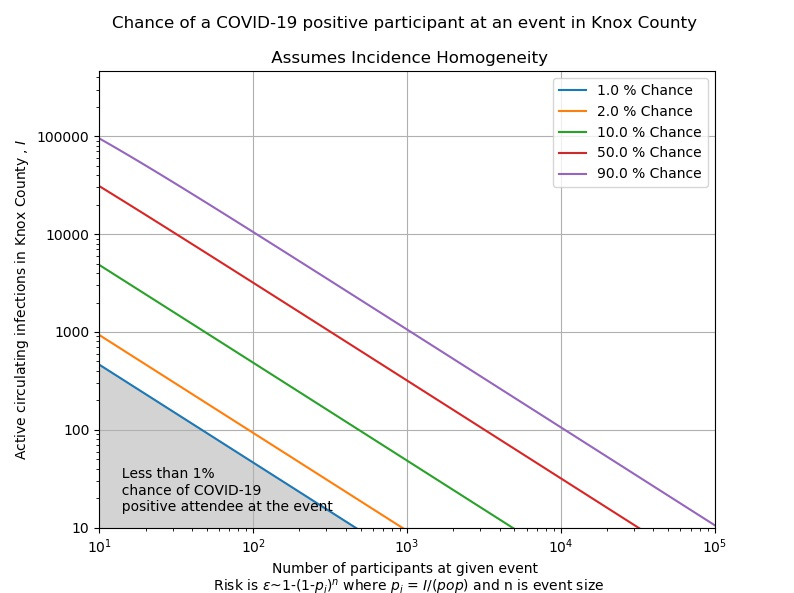
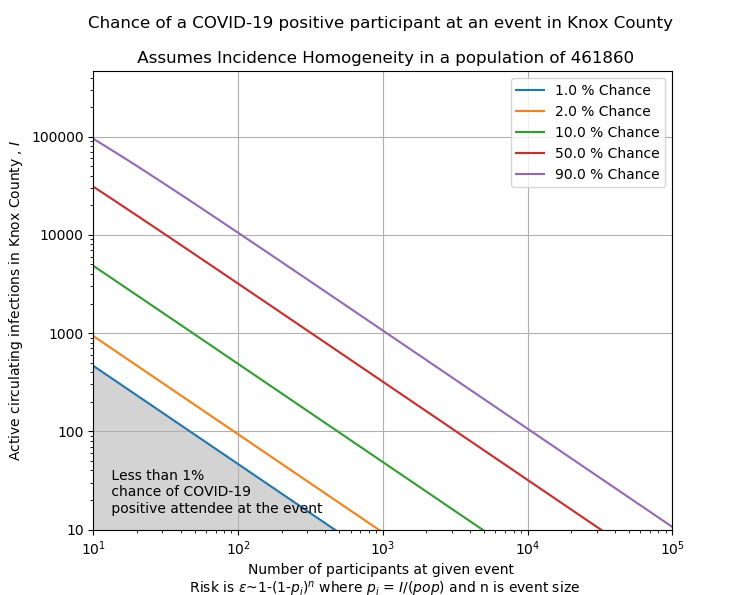
updated location and populations on graphs

diff --git a/EpidemicRisks.py b/EpidemicRisks.py
@@ -49,7 +49,7 @@ ax.yaxis.set_major_formatter(ticker.FuncFormatter(lambda y, _: '{:g}'.format(y))
 
 #fill below the 1 percent line    
 plt.fill_between(n, (1 - (1-risk_vals[0])**(1.0/n))*pop, color='lightgrey')
-box_text = '  Less than 1% \n  chance of COVID-19 \n  positive attendee at the event'
+box_text = ' Less than 1% \n chance of COVID-19 \n positive attendee at the event'
 text_box = AnchoredText(box_text, frameon=False, loc=3, pad = 0.5)
 plt.setp(text_box.patch, facecolor = 'white', alpha = 0.5)
 ax.add_artist(text_box)
@@ -57,5 +57,5 @@ ax.add_artist(text_box)
 #print labels
 plt.ylabel('Active circulating infections in ' +location +' , $I$')
 plt.xlabel('Number of participants at given event \n Risk is $\epsilon$~1-(1-$p_i$)$^n$ where $p_i$ = $I/(pop)$ and n is event size')
-plt.title('Chance of a COVID-19 positive participant at an event in '+ location +' \n\n Assumes Incidence Homogeneity')
+plt.title('Chance of a COVID-19 positive participant at an event in '+ location +' \n\n Assumes Incidence Homogeneity in a population of '+str(pop))
 plt.grid(True)
